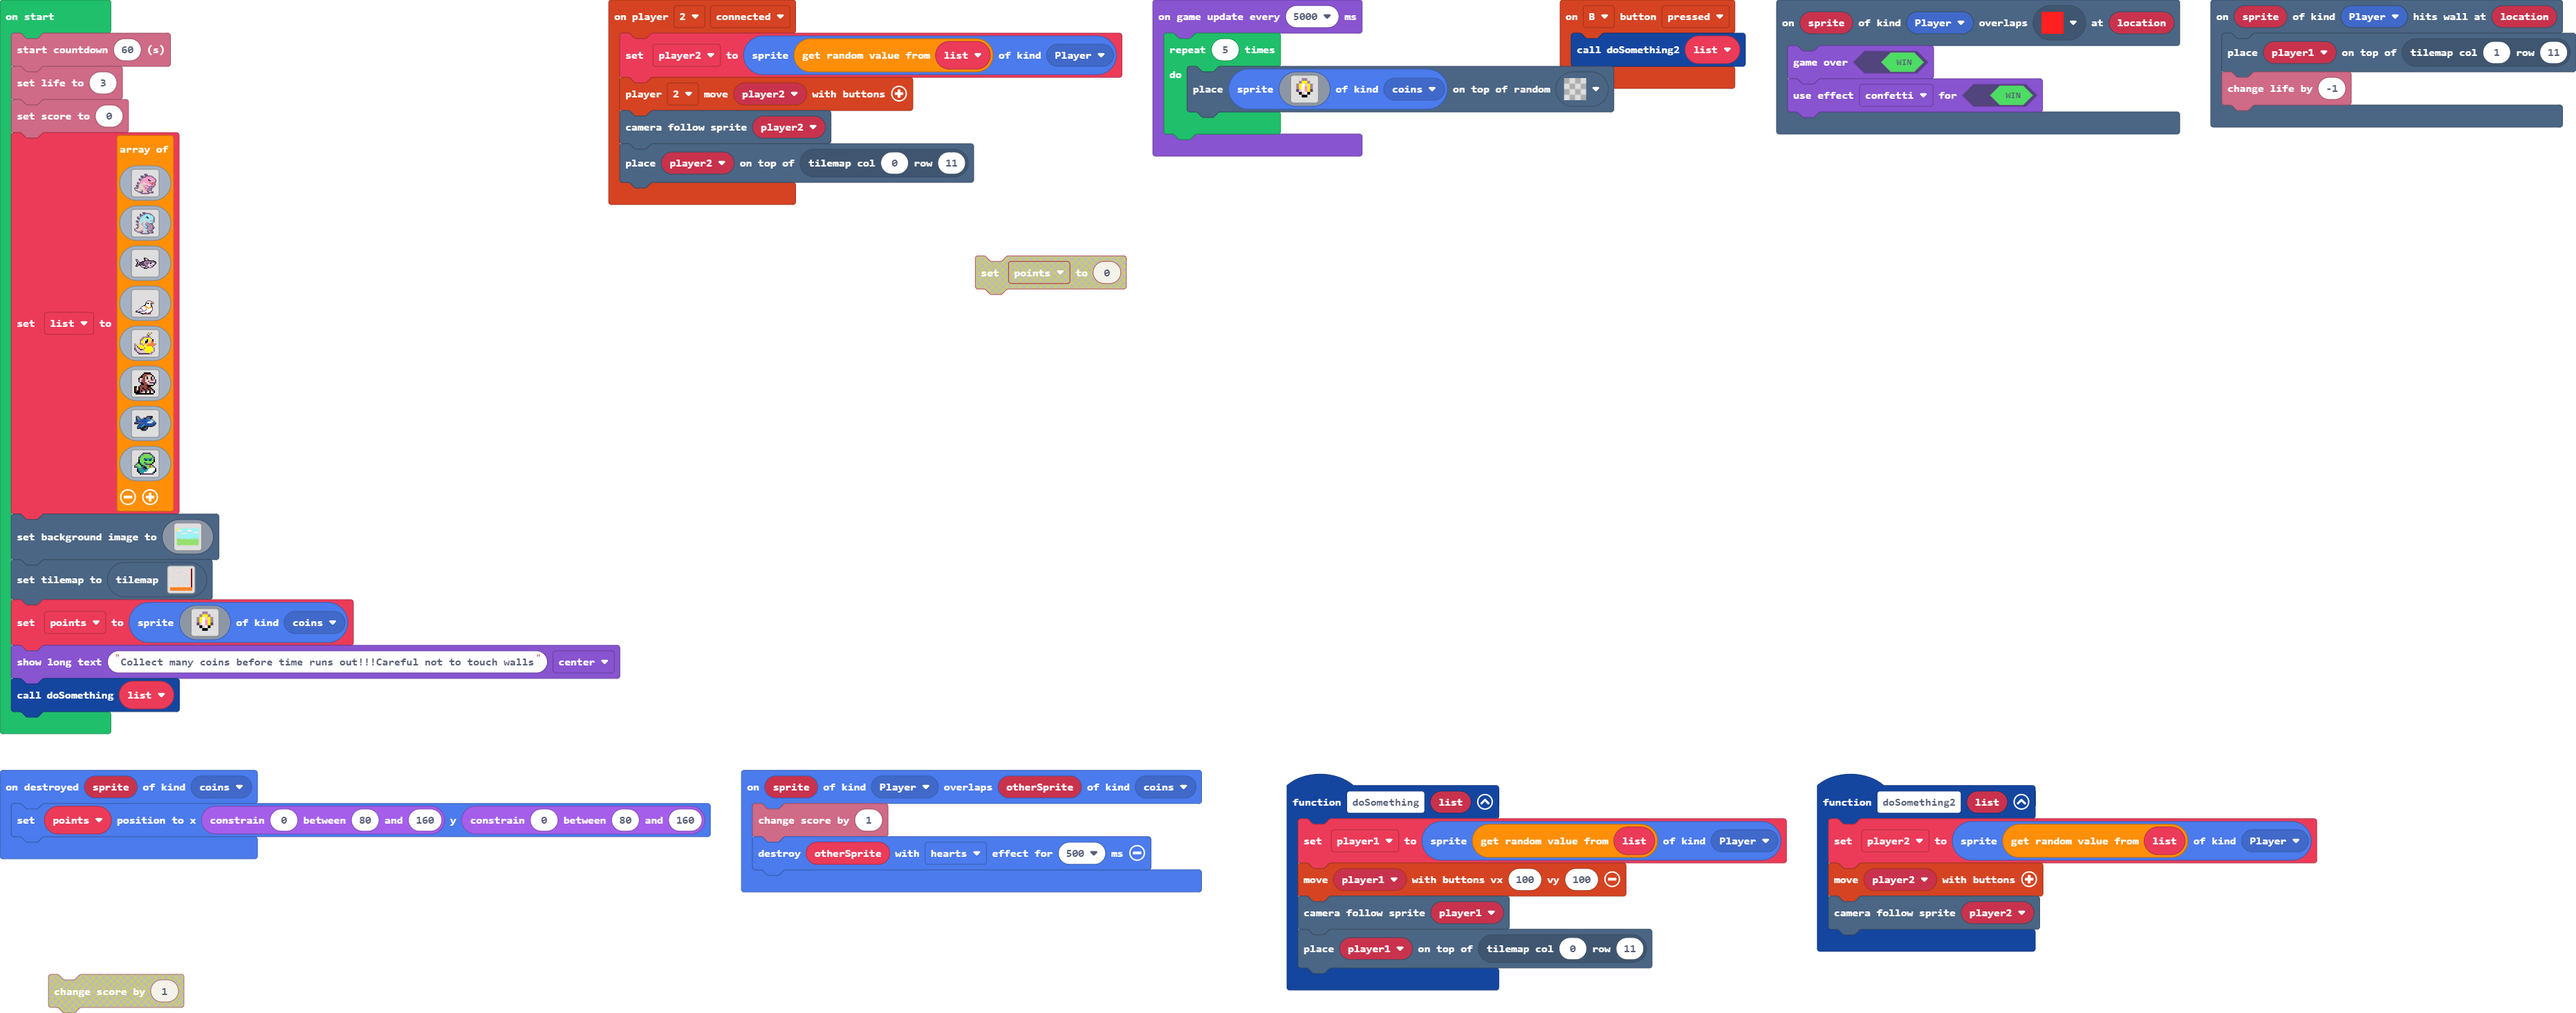
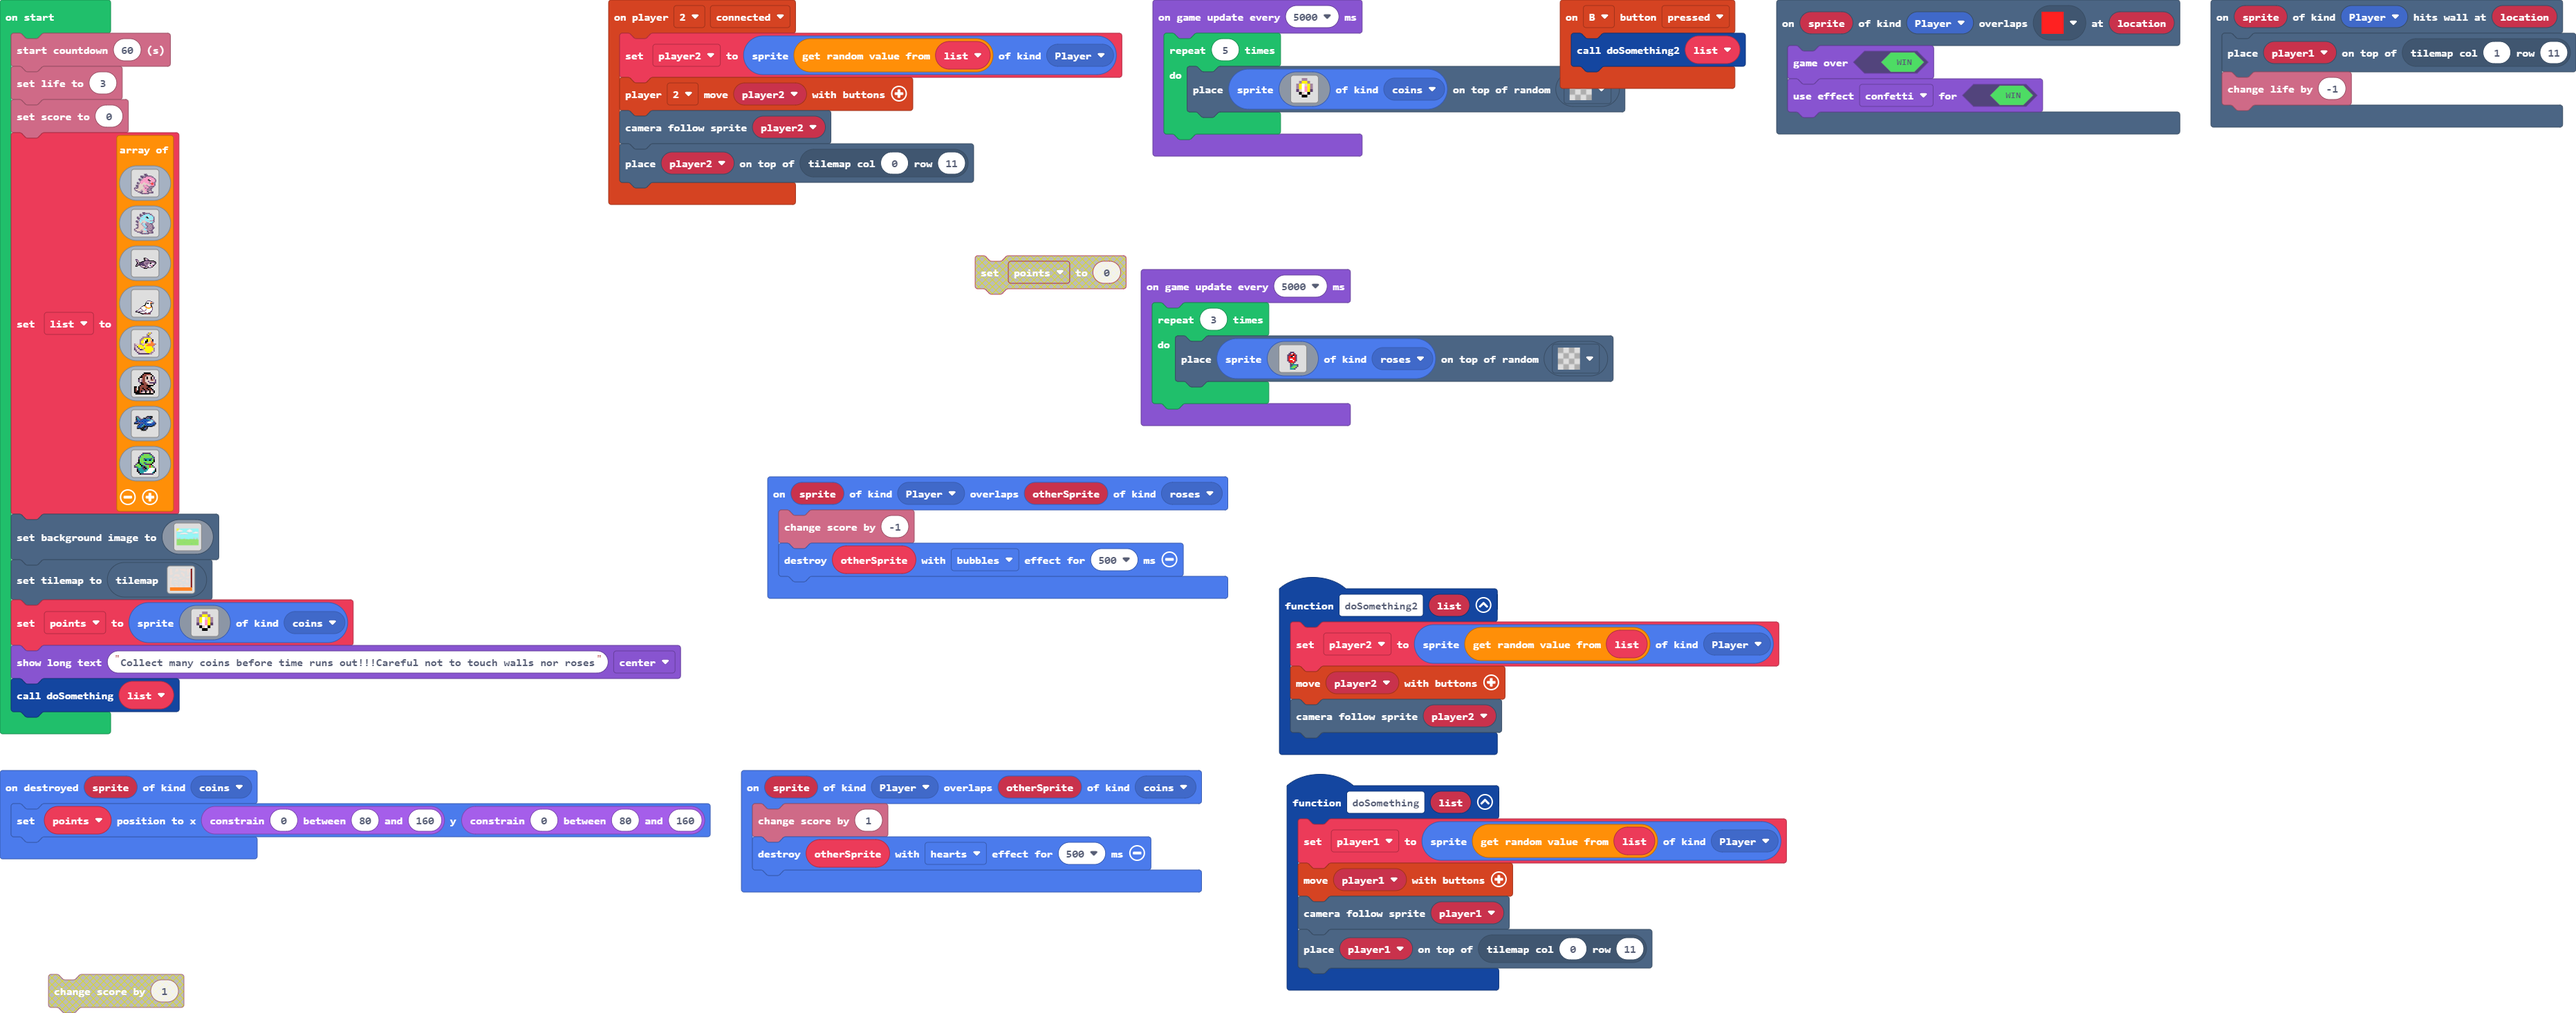
Update pxt.json, main.blocks, main.ts, tilemap.g.jres, tilemap.g.ts

diff --git a/tilemap.g.ts b/tilemap.g.ts
@@ -126,7 +126,7 @@ namespace myTiles {
 . . . . . . . . . . . . . . . . 
 `, [myTiles.transparency16], TileScale.Sixteen);
             case "level1":
-            case "level1":return tiles.createTilemap(hex`2000200002020200000000000002020200000202020202020202020000020202020003040202020000000000020202020000020202020202020202000202020202000403020202000000000002020202000000000202020202020200020202020202030402020200000000000202020200000000000000000202000002020202020204030202020000000002020000000000000000000000000000000002020202000304020202000000000000000000000000000202000000000000000202020000040302020202000000000000000000000000020202000000000000020200000003040202020200000000000000000000000002020202020000000002020000000403020202000000000202020202020000000000020202000000000202000000030400000000000002020202020202020000000002020200000000000000000004030000000000000202020202020202000000000002020000000000000000000304000000000002020000000002020200000000000002000000000002020200040300000000000000000000000000000000000000000000000202020202020003040202020000000000000000000002020202020000000000000002020200000403020202000000020202000000000202020200000000000000000000000000030402020200000202020202000000000000000000000200000000000000000204030202020000020202020202020000000002020202000000020200000000020304020200000000000000000000000000000202000000000002020200000000040302020000000000000000000200000000000000000000000202020200000003040202000000000002020202020000000202020000000000020202000000000403020200000000000000000202000002020000000000000000000200000002030402020000000000000000000000000000000000000000000000000000000204030202000000000002020000000000000000020000000200000000000000020304020202020000000002020000000000020202000002020202000002000002040302020202020000000202020200000202020200000000020202020200000203040202020202020000020202020000020202020000000002020202020000020403020202020202000002020202000002020202000000000202020202000002030401010101010101010101010101010101010101010101010101010101010101010101010101010101010101010101010101010101010101010101010101010101010101010101010101010101010101010101010101010101010101010101010101010101010101010101010101010101010101010101010101010101010101010101010101010101010101010101010101010101010101010101010101010101`, img`
+            case "level1":return tiles.createTilemap(hex`2000200002020200000000000002020200000202020202020202020000020202020003040202020000000000020202020000020202020202020202000202020202000403020202000000000002020202000000000202020202020200020202020202030402020200000000000202020200000000000000000202000002020202020204030202020000000002020000000000000000000000000000000002020202000304020202000000000000000000000000000202000000000000000202020000040302020202000000000000000000000000020202000000000000020200000003040202020200000000000000000000000002020202020000000002020000000403020202000000000202020202020000000000020202000000000202000000030400000000000002020202020202020000000002020200000000000000000004030000000000000202020202020202000000000002020000000000000000000304000000000002020000000002020200000000000002000000000002020200040300000000000000000000000000000000000000000000000202020202020003040202020000000000000000000002020202020000000000000002020200000403020202000000020202000000000202020000000000000000000000000000030402020200000202020202000000000000000000000200000000000000000204030202020000020000000202000000000000000202020000020200000000020304020200000000000000000000000000000002020202000002020200000000040302020000000000020000000000000000000000000000000202020200000003040202000000000202020202000000020000000000000000020202000000000403020200000000000000000200000002020200000000000000000200000002030402020000000000000000000000020000000000000000000000000000000204030202000000000002020000000000000000020000000200000000000000020304020202020000000002020000000000000202000002020202000002000002040302020202020000000202020200000202020200000000020202020200000203040202020202020000020202020000020202020000000002020202020000020403020202020202000002020202000002020202000000000202020202000002030401010101010101010101010101010101010101010101010101010101010101010101010101010101010101010101010101010101010101010101010101010101010101010101010101010101010101010101010101010101010101010101010101010101010101010101010101010101010101010101010101010101010101010101010101010101010101010101010101010101010101010101010101010101`, img`
 222......222..222222222..2222...
 222.....2222..222222222.22222...
 222.....2222....2222222.222222..
@@ -141,16 +141,16 @@ namespace myTiles {
 .....22....222......2.....222...
 .......................222222...
 222..........22222.......222....
-222...222....2222...............
+222...222....222................
 222..22222..........2........2..
-222..2222222....2222...22....2..
-22..............22.....222......
-22.........2...........2222.....
-22.....22222...222.....222......
-22........22..22.........2...2..
-22...........................2..
+222..2...22.......222..22....2..
+22...............2222..222......
+22.....2...............2222.....
+22....22222...2........222......
+22........2...222........2...2..
+22...........2...............2..
 22.....22........2...2.......2..
-2222....22.....222..2222..2..2..
+2222....22......22..2222..2..2..
 22222...2222..2222....22222..2..
 222222..2222..2222....22222..2..
 222222..2222..2222....22222..2..

diff --git a/main.ts b/main.ts
@@ -1,5 +1,6 @@
 namespace SpriteKind {
     export const coins = SpriteKind.create()
+    export const roses = SpriteKind.create()
 }
 scene.onOverlapTile(SpriteKind.Player, assets.tile`myTile0`, function (sprite, location) {
     game.gameOver(true)
@@ -21,7 +22,7 @@ sprites.onDestroyed(SpriteKind.coins, function (sprite) {
 })
 function doSomething (list: Image[]) {
     player1 = sprites.create(list._pickRandom(), SpriteKind.Player)
-    controller.moveSprite(player1, 100, 100)
+    controller.moveSprite(player1)
     scene.cameraFollowSprite(player1)
     tiles.placeOnTile(player1, tiles.getTileLocation(0, 11))
 }
@@ -36,6 +37,10 @@ function doSomething2 (list: Image[]) {
     controller.moveSprite(player2)
     scene.cameraFollowSprite(player2)
 }
+sprites.onOverlap(SpriteKind.Player, SpriteKind.roses, function (sprite, otherSprite) {
+    info.changeScoreBy(-1)
+    sprites.destroy(otherSprite, effects.bubbles, 500)
+})
 let player2: Sprite = null
 let player1: Sprite = null
 let points: Sprite = null
@@ -354,7 +359,7 @@ points = sprites.create(img`
     . . . f f . . . 
     . . . . . . . . 
     `, SpriteKind.coins)
-game.showLongText("Collect many coins before time runs out!!!Careful not to touch walls", DialogLayout.Center)
+game.showLongText("Collect many coins before time runs out!!!Careful not to touch walls nor roses", DialogLayout.Center)
 doSomething(list)
 game.onUpdateInterval(5000, function () {
     for (let index = 0; index < 5; index++) {
@@ -368,5 +373,27 @@ game.onUpdateInterval(5000, function () {
             . . . f f . . . 
             . . . . . . . . 
             `, SpriteKind.coins), assets.tile`transparency16`)
+    }
+})
+game.onUpdateInterval(5000, function () {
+    for (let index = 0; index < 3; index++) {
+        tiles.placeOnRandomTile(sprites.create(img`
+            . . . . . . . . 
+            . . . . . . . . 
+            . . . . . . . . 
+            . . c c c . . . 
+            . c c 1 2 c . . 
+            c c 2 2 f 2 c . 
+            c 2 c f 1 2 c . 
+            c 2 2 2 2 2 c . 
+            c 2 1 1 2 2 c . 
+            c 2 2 2 1 2 c . 
+            . c 2 2 2 c . . 
+            . . c 7 c . . . 
+            . . c c 6 6 6 c 
+            . . c 6 7 7 7 c 
+            . . 6 7 7 7 c . 
+            . . 6 6 6 c . . 
+            `, SpriteKind.roses), assets.tile`transparency16`)
     }
 })
